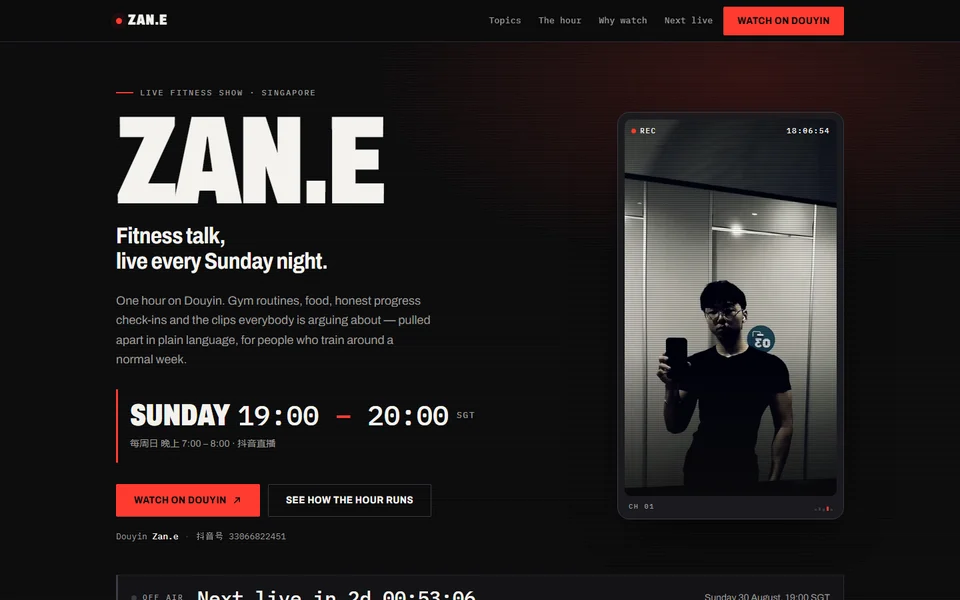
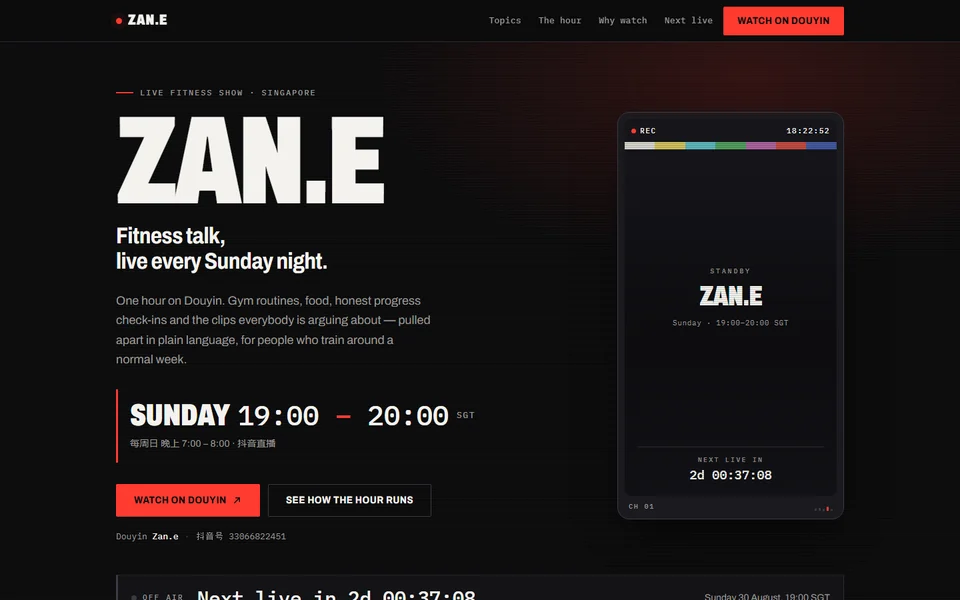
ZAN.E: drop the photography, run a standby slate in the frame instead
The host's stills are out at his request -- better ones will come later. Rather
than leave a hole where the hero image was, the vertical-video frame now runs
a broadcast standby slate: colour bars, the wordmark, the slot, and the live
countdown. It reads STANDBY / STARTING SOON / ON AIR and flips to red during
the hour, driven by the same Singapore clock as everything else, so the frame
now does a job instead of just holding a picture.

The scan overlay lost its heavy top and bottom scrim -- that existed to sink a
photograph behind the HUD, and over the slate it only crushed the countdown to
an unreadable grey.

"Why watch" loses its stills column and splits each reason into letter, claim
and explanation across the full width, echoing the run sheet's cue/time/body
so the two list sections read as one system rather than one looking starved.

The page now loads zero images. OG card and hub thumbnail are re-shot from the
new hero; hub copy and IMAGE-CREDITS.md updated to state plainly that there is
no photography on the page.

Re-verified: no overflow 320-1920 with overflow-x left visible, marquee rules
intact, slate text 6.91:1 and 17.36:1, and the on-air path re-asserted at three
fabricated moments -- slate, status strip and cue highlight all still agree.

Changed region(s): [[0.625, 0.18, 0.875, 0.81], [0.4375, 0.99, 0.5, 1.0]]

diff --git a/templates/zane-live/css/style.css b/templates/zane-live/css/style.css
@@ -363,18 +363,83 @@ a { color: inherit; }
   background: #000;
   aspect-ratio: 9 / 16;
 }
-.phone-screen img {
-  width: 100%;
-  height: 100%;
-  object-fit: cover;
+/* ---- standby slate ----
+   What the frame is showing between broadcasts: a gallery slate, driven by the
+   same Singapore clock as the rest of the page. It goes red and reads ON AIR
+   during the hour. */
+.slate {
+  position: absolute;
+  inset: 0;
+  display: grid;
+  grid-template-rows: auto 1fr auto;
+  padding-top: 34px;            /* clears the REC / timecode HUD row */
+  background: linear-gradient(180deg, #17171C 0%, #0D0D10 58%, #121216 100%);
 }
+.slate-bars {
+  height: 6.5%;
+  min-height: 11px;
+  background: linear-gradient(90deg,
+    #D6D3CC 0 14.28%, #CFC15C 14.28% 28.56%, #5EB6BB 28.56% 42.84%,
+    #529E5C 42.84% 57.12%, #AB629C 57.12% 71.40%, #C24A40 71.40% 85.68%,
+    #43589F 85.68% 100%);
+}
+
+.slate-mid {
+  align-self: center;
+  padding: 0 clamp(14px, 6%, 26px);
+  text-align: center;
+}
+.slate-state {
+  font: 500 10px/1 var(--mono);
+  letter-spacing: .28em;
+  text-transform: uppercase;
+  color: var(--dim);
+  margin-bottom: 14px;
+}
+.slate[data-on] .slate-state { color: var(--sig); }
+.slate-mark {
+  font-weight: 900;
+  font-stretch: 66%;
+  font-size: 42px;
+  line-height: .9;
+  letter-spacing: -.02em;
+  color: var(--bone);
+}
+.slate-meta {
+  margin-top: 12px;
+  font: 400 11px/1.5 var(--mono);
+  letter-spacing: .06em;
+  color: var(--dim);
+}
+
+.slate-foot {
+  margin: 0 clamp(14px, 6%, 22px) clamp(16px, 7%, 26px);
+  padding-top: 14px;
+  border-top: 1px solid rgba(244, 242, 238, .14);
+  text-align: center;
+}
+.slate-label {
+  font: 500 10px/1 var(--mono);
+  letter-spacing: .22em;
+  text-transform: uppercase;
+  color: var(--dim);
+  margin-bottom: 8px;
+}
+.slate-count {
+  font: 500 19px/1 var(--mono);
+  letter-spacing: -.01em;
+  color: var(--bone);
+  font-variant-numeric: tabular-nums;
+}
+.slate[data-on] .slate-count { color: var(--sig); }
+/* Scanlines only. The heavy top/bottom scrim this used to carry was there to
+   sink a photograph behind the HUD; over the slate it only crushed the
+   countdown, so it is gone. */
 .scan {
   position: absolute;
   inset: 0;
   pointer-events: none;
-  background:
-    linear-gradient(to bottom, rgba(11, 11, 12, .5), transparent 26%, transparent 62%, rgba(11, 11, 12, .78)),
-    repeating-linear-gradient(to bottom, rgba(0, 0, 0, .22) 0 1px, transparent 1px 3px);
+  background: repeating-linear-gradient(to bottom, rgba(0, 0, 0, .17) 0 1px, transparent 1px 3px);
 }
 .phone-hud {
   position: absolute;
@@ -691,31 +756,13 @@ a { color: inherit; }
 }
 .reasons p { color: var(--dim); font-size: 15px; max-width: 58ch; }
 
-.why-side { display: grid; grid-template-columns: repeat(2, minmax(0, 1fr)); gap: 16px; }
-.still { margin: 0; min-width: 0; }
-/* Square, unlike the hero's 9:16 phone frame: these read as log stills off a
-   check-in board rather than as the live feed, and two of them stack to about
-   the height of the reasons list beside them. */
-.still img {
-  width: 100%;
-  border: 1px solid var(--line-2);
-  border-radius: 4px;
-  aspect-ratio: 1 / 1;
-  object-fit: cover;
-  object-position: center 42%;
-}
-.still figcaption {
-  margin-top: 9px;
-  font: 400 11px/1.4 var(--mono);
-  letter-spacing: .1em;
-  text-transform: uppercase;
-  color: var(--dim);
-}
-
+/* Wide screens split each reason into letter · claim · explanation, echoing the
+   run sheet's cue · time · body so the two list sections read as one system. */
 @media (min-width: 900px) {
-  .why-grid { grid-template-columns: minmax(0, 1fr) 300px; align-items: start; }
-  .why-side { grid-template-columns: minmax(0, 1fr); gap: 26px; }
-  .still-lower { margin-top: 0; }
+  .reasons > li { grid-template-columns: 40px 300px minmax(0, 1fr); gap: 0 28px; align-items: baseline; }
+  .reasons > li > div { display: contents; }
+  .reasons h3 { margin-bottom: 0; }
+  .reasons p { max-width: 62ch; }
 }
 
 /* ---------------------------------------------------- next live --------- */

diff --git a/templates/zane-live/index.html b/templates/zane-live/index.html
@@ -119,14 +119,22 @@
         </p>
       </div>
 
-      <!-- vertical-video frame: a still from the show's own posts -->
+      <!-- vertical-video frame, running the show's standby slate -->
       <div class="hero-frame">
         <div class="phone">
           <div class="phone-screen">
-            <img src="img/cue-b-lg.webp" srcset="img/cue-b-sm.webp 400w, img/cue-b-lg.webp 760w"
-                 sizes="(max-width: 700px) 78vw, 340px"
-                 alt="Zane in a gym locker room, filming a training check-in on his phone."
-                 width="760" height="1350" decoding="async" fetchpriority="high">
+            <div class="slate">
+              <div class="slate-bars" aria-hidden="true"></div>
+              <div class="slate-mid">
+                <p class="slate-state" data-slate-state>Standby</p>
+                <p class="slate-mark">ZAN.E</p>
+                <p class="slate-meta">Sunday · 19:00–20:00 SGT</p>
+              </div>
+              <div class="slate-foot">
+                <p class="slate-label" data-slate-label>Next live in</p>
+                <p class="slate-count" data-slate-count>—</p>
+              </div>
+            </div>
             <div class="scan" aria-hidden="true"></div>
           </div>
           <div class="phone-hud" aria-hidden="true">
@@ -304,7 +312,7 @@
 
       <div class="why-grid">
         <div class="why-main reveal">
-          <ul class="reasons">
+          <ul class="reasons" role="list">
             <li>
               <span class="rs-no">A</span>
               <div>
@@ -346,23 +354,6 @@
               </div>
             </li>
           </ul>
-        </div>
-
-        <div class="why-side reveal d1">
-          <figure class="still">
-            <img src="img/cue-a-lg.webp" srcset="img/cue-a-sm.webp 400w, img/cue-a-lg.webp 619w"
-                 sizes="(max-width: 900px) 44vw, 260px"
-                 alt="Zane mid-sentence in a gym bathroom mirror, filming a training log."
-                 width="619" height="1100" loading="lazy" decoding="async">
-            <figcaption>Weekly log · mid-week</figcaption>
-          </figure>
-          <figure class="still still-lower">
-            <img src="img/cue-c-lg.webp" srcset="img/cue-c-sm.webp 400w, img/cue-c-lg.webp 551w"
-                 sizes="(max-width: 900px) 44vw, 260px"
-                 alt="Zane checking his arm in a mirror during a progress check-in."
-                 width="551" height="980" loading="lazy" decoding="async">
-            <figcaption>Check-in · progress</figcaption>
-          </figure>
         </div>
       </div>
     </div>

diff --git a/index.html b/index.html
@@ -1972,12 +1972,12 @@
     <a class="card reveal" href="templates/zane-live/index.html">
       <div class="preview preview--shot">
         <div class="chrome"><i></i><i></i><i></i></div>
-        <img src="img/zane-live-sm.webp" alt="The Zan.e homepage: the condensed wordmark ZAN.E in bone white on near-black beside a phone-shaped video frame marked REC, above a red-ruled SUNDAY 19:00 &ndash; 20:00 SGT slot." width="480" height="300" loading="lazy" decoding="async">
+        <img src="img/zane-live-sm.webp" alt="The Zan.e homepage: the condensed wordmark ZAN.E in bone white on near-black beside a phone-shaped frame showing a broadcast standby slate with colour bars and a live countdown, above a red-ruled SUNDAY 19:00 &ndash; 20:00 SGT slot." width="480" height="300" loading="lazy" decoding="async">
       </div>
       <div class="card-body">
         <span class="tag">Fitness / Live Show</span>
         <h3>ZAN.E</h3>
-        <p>A live fitness show broadcast from Singapore every Sunday night, dressed as a broadcast gallery rather than a podcast page &mdash; condensed cut type on near-black, timecode mono, scanlines, and a REC-marked vertical video frame cut from the show&rsquo;s own footage. The hour is laid out as a five-cue run sheet, and one Singapore clock drives everything on the page: an on-air/countdown strip, the mobile action bar, the cue that highlights while it is actually airing, and four real upcoming dates &mdash; so nothing on it can go stale.</p>
+        <p>A live fitness show broadcast from Singapore every Sunday night, dressed as a broadcast gallery rather than a podcast page &mdash; condensed cut type on near-black, timecode mono, scanlines, and a REC-marked vertical video frame running a broadcast standby slate. The hour is laid out as a five-cue run sheet, and one Singapore clock drives everything on the page: the slate, an on-air/countdown strip, the mobile action bar, the cue that highlights while it is actually airing, and four real upcoming dates &mdash; so nothing on it can go stale. No photography anywhere &mdash; the identity is type, colour and CSS.</p>
         <span class="card-foot">
           <span class="card-link">View Template
             <svg viewBox="0 0 24 24" fill="none" stroke="currentColor" stroke-width="2" stroke-linecap="round" stroke-linejoin="round"><path d="M5 12h14"/><path d="M13 6l6 6-6 6"/></svg>

diff --git a/templates/zane-live/js/ui.js b/templates/zane-live/js/ui.js
@@ -153,6 +153,10 @@
   var nextCount = document.querySelector('[data-next-count]');
   var upcoming = document.querySelector('[data-upcoming]');
   var cues = document.querySelectorAll('[data-cue]');
+  var slate = document.querySelector('.slate');
+  var slateState = document.querySelector('[data-slate-state]');
+  var slateLabel = document.querySelector('[data-slate-label]');
+  var slateCount = document.querySelector('[data-slate-count]');
 
   var upcomingPainted = false;
 
@@ -168,6 +172,8 @@
       if (nextDate) nextDate.textContent = 'Sunday';
       if (nextCount) nextCount.textContent = 'Live on Douyin, every week';
       if (abValue) abValue.textContent = 'Sunday 19:00 SGT';
+      if (slateLabel) slateLabel.textContent = 'Every';
+      if (slateCount) slateCount.textContent = 'Sunday 19:00';
       return;
     }
 
@@ -194,6 +200,10 @@
         abValue.textContent = (minsIn < 1 ? 'Just started' : minsIn + ' min in')
           + ' · ' + countdown(leftSec) + ' left';
       }
+      if (slate) slate.setAttribute('data-on', '');
+      if (slateState) slateState.textContent = 'On air';
+      if (slateLabel) slateLabel.textContent = 'Time remaining';
+      if (slateCount) slateCount.textContent = countdown(leftSec);
     } else {
       var toStart = secondsToNextStart(now);
       var soon = toStart <= 3600;
@@ -205,6 +215,10 @@
       if (stripSub) stripSub.textContent = longDate(broadcastDate(now, 0)) + ', 19:00 SGT';
       if (abLabel) abLabel.textContent = soon ? 'Starting soon' : 'Next live';
       if (abValue) abValue.textContent = countdown(toStart);
+      if (slate) slate.removeAttribute('data-on');
+      if (slateState) slateState.textContent = soon ? 'Starting soon' : 'Standby';
+      if (slateLabel) slateLabel.textContent = 'Next live in';
+      if (slateCount) slateCount.textContent = countdown(toStart);
     }
 
     // Next-broadcast card

diff --git a/templates/zane-live/IMAGE-CREDITS.md b/templates/zane-live/IMAGE-CREDITS.md
@@ -1,34 +1,25 @@
 # Image credits — Zan.e
 
-Every photograph on this page is a still from Zan.e's own Douyin posts,
-supplied by the account holder for use on this site. No stock, no AI-generated
-imagery, no third-party photography.
+**There is no photography on this page.** No stock, no AI-generated imagery, no
+third-party photography, and no pictures of the host — the visual identity is
+built entirely from type, colour and CSS.
 
 | File | Source | Used for |
 |---|---|---|
-| `img/cue-b-{sm,lg}.webp` | Zan.e Douyin post cover (1080×1920) | Hero phone frame |
-| `img/cue-a-{sm,lg}.webp` | Zan.e Douyin post cover (1080×1920) | "Why watch" still — weekly log |
-| `img/cue-c-{sm,lg}.webp` | Zan.e Douyin post cover (1080×1920) | "Why watch" still — check-in |
-| `img/og-1200.webp` | Screenshot of this page's own hero | Open Graph card |
 | `img/favicon.svg` | Drawn for this site | Favicon |
+| `img/og-1200.webp` | Screenshot of this page's own hero | Open Graph card |
 | `../../img/zane-live-sm.webp` | Screenshot of this page's own hero | Hub gallery card |
 
-The unprocessed originals and the grading script live in `src/`, which is
-gitignored repo-wide and excluded from deploys — local build tooling, not part
-of the committed or served site. Only the graded `.webp` output ships.
+Both `.webp` files are captures of the page itself, so they carry no imagery
+the page does not already contain. Regenerate them from a fresh screenshot
+whenever the hero changes.
 
-## Processing
+The hero's vertical-video frame holds a **CSS standby slate** — colour bars, the
+wordmark, and the live countdown — driven by the same Singapore clock as the
+rest of the page. It is markup, not an image.
 
-`src/grade.sh` is the whole pipeline. Each frame is cropped to a fixed aspect,
-**exposure-normalised toward one shared mean luma (96)**, then pushed through a
-single identical grade — cool, contrasty, desaturated, lightly grained — so
-three separate phone shoots read as one set on the near-black page. Frames are
-emitted at their own native crop width rather than a uniform size, so a tight
-crop is never upscaled.
-
-Crops were chosen partly to exclude third-party gym branding that appeared in
-two of the source frames; no gym, brand or sponsor is implied anywhere on the
-page.
+Photography is deliberately pending: the show's own stills will be added later.
+Until then nothing on the page pretends to be a photograph.
 
 ## Fonts
 

diff --git a/templates/zane-live/DESIGN.md b/templates/zane-live/DESIGN.md
@@ -7,8 +7,10 @@ A one-page site for a live fitness show broadcast from Singapore every Sunday
 
 The show is a *broadcast*, not a blog, so the page is dressed as a gallery: a
 condensed cut display face, timecode mono, signal red on near-black, scanlines,
-a REC-marked vertical video frame, and the hour laid out as a numbered run
-sheet. The one fact the page exists to deliver — **Sunday 19:00–20:00 SGT** —
+a REC-marked vertical video frame running a broadcast standby slate, and the
+hour laid out as a numbered run sheet. There is no photography anywhere on the
+page — the identity is type, colour and CSS. Stills will come later; see
+IMAGE-CREDITS.md. The one fact the page exists to deliver — **Sunday 19:00–20:00 SGT** —
 is the largest non-title element on the screen, and the Douyin CTA is repeated
 in the header, hero, schedule card, footer CTA and the persistent mobile bar.
 
@@ -50,6 +52,8 @@ and drives everything from it:
   **starting soon** (inside the hour before), or a live countdown;
 - the mobile action bar, which mirrors that state;
 - the run sheet's `[data-now]` cue highlight and its "On now" flag;
+- the hero's standby slate, which reads STANDBY / STARTING SOON / ON AIR and
+  counts down or shows time remaining;
 - the next-broadcast date and the next four Sundays, computed as real calendar
   dates so nothing on the page can go stale;
 - the run sheet's printed total, summed from the cues' own `data-start` /
